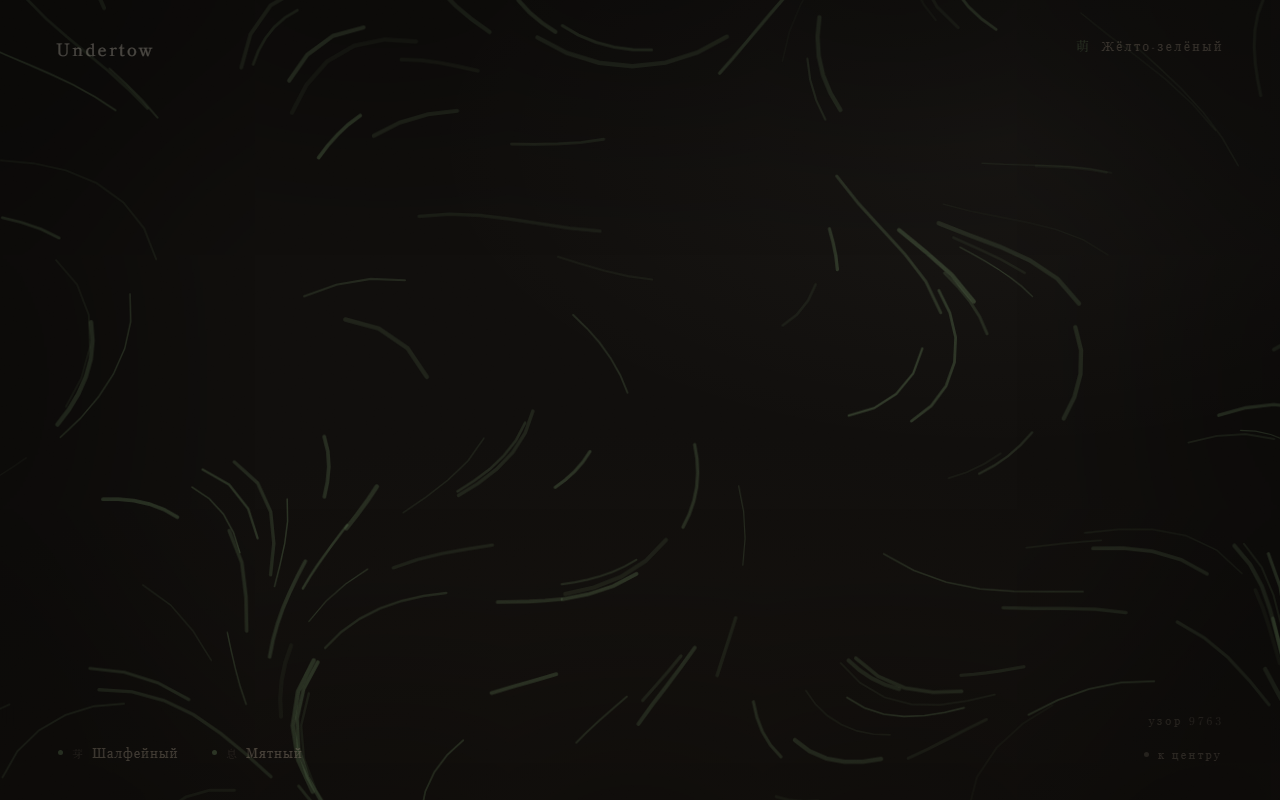
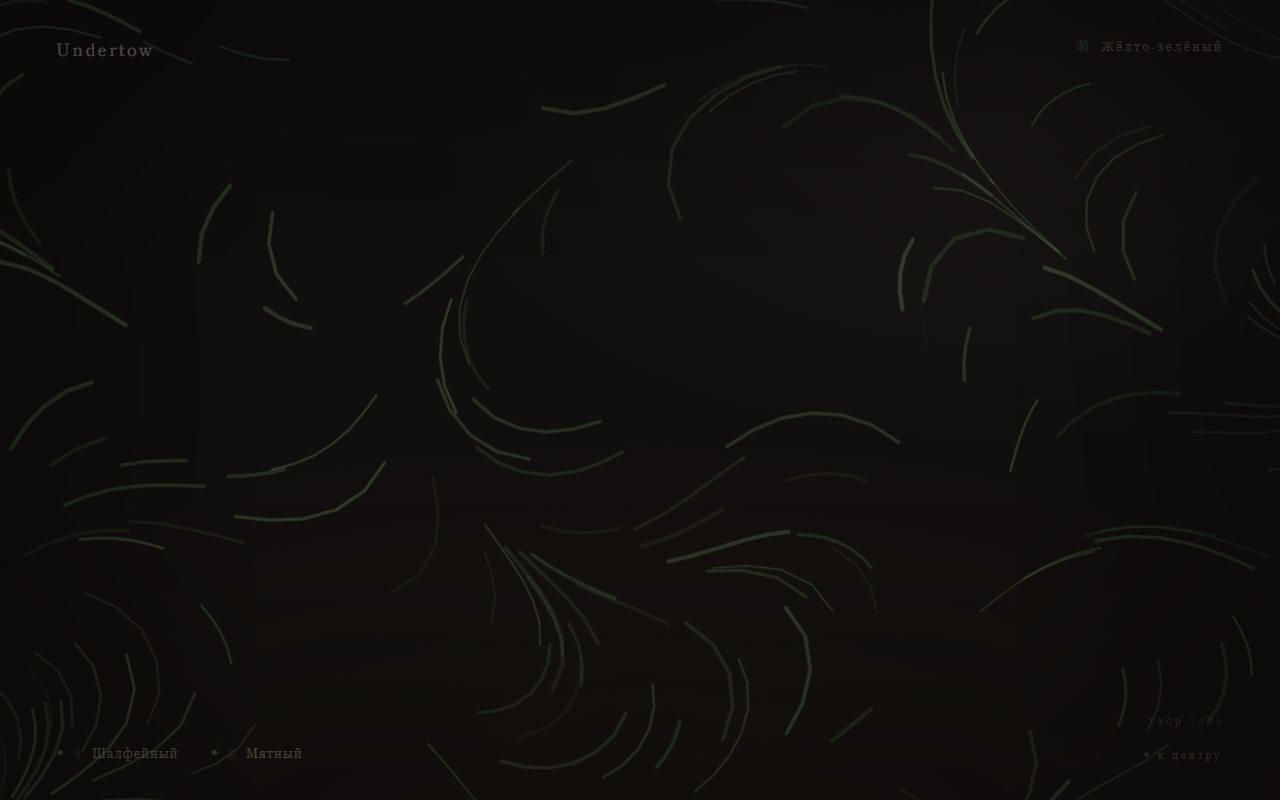
Без движения из комнаты нельзя было выйти: выходы замирали прозрачными
Глобальное правило reduced-motion останавливает анимацию и подставляет
--rest-offset. Для зацикленных это середина цикла — ровно то, что нужно. Но у
одноразовых «появлений» нулевое смещение означало нулевую фазу: элемент замирал
в начале, то есть прозрачным навсегда. Так пропадали выходы из комнаты, её
название и все подписи, приходящие с задержкой.

Смещения выставлены за конец анимации, добавлены две постоянные проверки — ни
одна одноразовая анимация не стоит на нулевой прозрачности, и выходы из каждой
комнаты видимы. Кадры состояния покоя теперь снимаются: увидеть эту ошибку
можно было только глазами.

Заодно устранены два флака: проверка «ни одна анимация не идёт» считала за
анимацию CSS-переход, который при reduced-motion длится миллисекунду, а тест
пелены выполнял evaluate ровно в тот момент, когда контекст сносит навигацией.

diff --git a/tests/reduced-motion.spec.ts b/tests/reduced-motion.spec.ts
@@ -16,14 +16,33 @@ test.describe('prefers-reduced-motion', () => {
       const running = await page.evaluate(() =>
         document
           .getAnimations()
+          // переходы здесь ни при чём: reduced-motion не запрещает их, а
+          // укорачивает до миллисекунды, и застать такой переход «идущим» —
+          // вопрос случая, а не ошибка. Их длительность проверяется отдельно
+          .filter((a) => a instanceof CSSAnimation)
           .filter((a) => a.playState === 'running')
           // тушевая пелена — единственное исключение: её короткий уход
           // при reduced-motion остаётся, иначе она застынет поверх страницы
           .filter((a) => !((a as CSSAnimation).animationName ?? '').includes('ink-'))
-          .map((a) => (a as CSSAnimation).animationName ?? a.constructor.name)
+          .map((a) => (a as CSSAnimation).animationName)
       );
 
       expect(running, `${path}: ${running.join(', ')}`).toEqual([]);
+
+      // ни один переход не должен длиться заметное время
+      const slow = await page.evaluate(() => {
+        const out: string[] = [];
+        for (const el of document.querySelectorAll('*')) {
+          const cs = getComputedStyle(el);
+          for (const d of cs.transitionDuration.split(', ')) {
+            const ms = d.endsWith('ms') ? parseFloat(d) : parseFloat(d) * 1000;
+            if (ms > 20) out.push(`${el.tagName.toLowerCase()}.${(el.className || '—').toString().slice(0, 30)} → ${d}`);
+          }
+        }
+        return [...new Set(out)];
+      });
+
+      expect(slow, `${path}: ${slow.join(', ')}`).toEqual([]);
     }
   });
 
@@ -52,6 +71,86 @@ test.describe('prefers-reduced-motion', () => {
     const v = await page.locator('#count').textContent();
     await page.waitForTimeout(2500);
     expect(await page.locator('#count').textContent()).toBe(v);
+  });
+
+  test('приходящие анимации замирают в конце, а не в начале', async ({ page }) => {
+    /*
+      Ловушка, в которую сайт уже попадал: глобальное правило останавливает
+      анимацию и подставляет --rest-offset. Для зацикленных это середина цикла,
+      а для одноразовых «появлений» нулевое смещение означает нулевую фазу —
+      элемент замирает прозрачным навсегда. У выходов из комнаты это значило,
+      что без движения из комнаты не выйти.
+    */
+    const stuck: string[] = [];
+
+    for (const path of ALL_PATHS) {
+      await page.goto(path);
+      await page.waitForTimeout(500);
+
+      const bad = await page.evaluate(() => {
+        const out: string[] = [];
+        for (const el of document.querySelectorAll('*')) {
+          const cs = getComputedStyle(el);
+          if (cs.animationName === 'none') continue;
+          if (!cs.animationFillMode.split(', ').includes('forwards')) continue;
+          if (cs.animationIterationCount.split(', ').some((c) => c === 'infinite')) continue;
+          if (Number(cs.opacity) > 0.02) continue;
+          // намеренно скрытые элементы в счёт не идут
+          if (cs.visibility === 'hidden' || cs.display === 'none') continue;
+          out.push(`${el.tagName.toLowerCase()}.${(el.className || '—').toString().slice(0, 34)} → ${cs.animationName}`);
+        }
+        return out;
+      });
+
+      if (bad.length) stuck.push(`${path}: ${[...new Set(bad)].join('; ')}`);
+    }
+
+    expect(stuck, stuck.join('\n')).toEqual([]);
+  });
+
+  test('выходы из комнаты видны и кликабельны без движения', async ({ page }) => {
+    for (const path of ALL_PATHS.filter((p) => p !== '/' && p !== '/colophon/')) {
+      await page.goto(path);
+      await page.waitForTimeout(400);
+
+      const exits = page.locator('.exits .exit');
+      const count = await exits.count();
+      expect(count, path).toBeGreaterThan(0);
+
+      for (let i = 0; i < count; i++) {
+        await expect(exits.nth(i), `${path}: выход ${i}`).toBeVisible();
+        const opacity = await exits.nth(i).evaluate((el) => {
+          let o = 1;
+          let node: Element | null = el;
+          while (node) {
+            o *= Number(getComputedStyle(node).opacity);
+            node = node.parentElement;
+          }
+          return o;
+        });
+        expect(opacity, `${path}: выход ${i} прозрачен`).toBeGreaterThan(0.2);
+      }
+    }
+  });
+
+  test('кадры состояния покоя', async ({ page }) => {
+    /*
+      Бриф просит не гасить анимацию, а переводить её в осмысленную точку покоя.
+      Проверить это по-настоящему можно только глазами, поэтому кадры снимаются
+      и лежат рядом с обычными: видно, что комната замерла в середине вдоха.
+    */
+    const shots: Array<[string, string]> = [
+      ['/', 'покой-центр'],
+      ['/white/frost/', 'покой-морозный'],
+      ['/blue/dusk/', 'покой-сумеречный'],
+      ['/red/orange/', 'покой-оранжевый'],
+    ];
+
+    for (const [path, name] of shots) {
+      await page.goto(path);
+      await page.waitForTimeout(1200);
+      await page.screenshot({ path: `screenshots/${name}.png` });
+    }
   });
 
   test('комнаты не пустеют: главное в кадре остаётся видимым', async ({ page }) => {

diff --git a/tests/interactions.spec.ts b/tests/interactions.spec.ts
@@ -259,8 +259,17 @@ test.describe('приёмы комнат', () => {
 
   test('переход между комнатами поднимает тушевую пелену', async ({ page }) => {
     await page.goto('/white/cloud/');
+    await page.waitForTimeout(4200); // выходы должны встать, иначе цель едет
 
+    /*
+      Переход отложенный: клик перехватывается, пелена заливает экран и только
+      потом происходит навигация. Поэтому ждать нужно именно смены адреса —
+      waitForLoadState вернулся бы сразу на текущей странице, и следующий
+      evaluate попал бы ровно в момент, когда контекст сносит навигацией.
+    */
+    const before = page.url();
     await page.locator('.exits .exit').first().click();
+    await page.waitForURL((url) => url.href !== before, { timeout: 10_000 });
     await page.waitForLoadState('load');
 
     // пелена должна была подняться до отрисовки новой комнаты

diff --git a/src/styles/base.css b/src/styles/base.css
@@ -254,7 +254,9 @@ a {
   pointer-events: none;
   opacity: 0;
   animation: exits-settle 2.4s var(--ease-state, ease) 1.6s forwards;
-  --rest-offset: 0s;
+  /* выходы — это навигация: при нулевом смещении они замирали бы прозрачными,
+     и без движения из комнаты было бы не выйти */
+  --rest-offset: -4.2s;
 }
 
 @keyframes exits-settle {

diff --git a/DECISIONS.md b/DECISIONS.md
@@ -40,9 +40,12 @@
 
 ## Карта и навигация
 
-**6. Колофон `/colophon/`.** Вход — метка `心` внизу главной. Что это, список
-комнат, строка про localStorage. Брифом не предусмотрен; задуман не как меню, а
-как тихая сноска, но формально это единственное место, где карта видна целиком.
+**6. Колофон `/colophon/`.** Вход — метка `心` внизу главной. Что это, пять веток
+с их ощущением и вход в каждую, строка про localStorage. Брифом не предусмотрен.
+Сначала он перечислял все двадцать комнат ссылками — и это подрывало главное
+правило навигации: любая комната оказывалась в двух кликах, блуждать было незачем
+(краулер это и показал: всё лежало на расстоянии 2). Список убран, остались только
+ветки; комнаты теперь на расстоянии 1–3 и находятся только друг из друга.
 *Откат: удалить `src/pages/colophon.astro` и ссылку с главной; убрать `/colophon/`
 из `ALL_PATHS`.*
 
